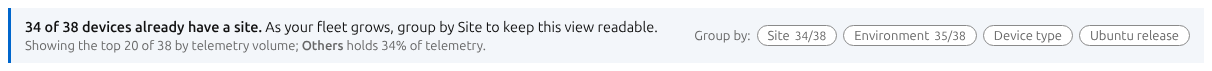
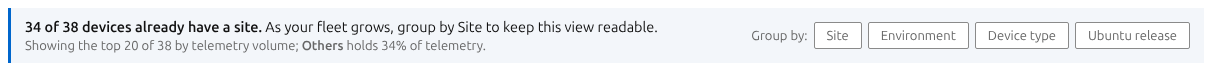
Use plain buttons for ladder group-bys and drop coverage counts
Claude-Session: https://claude.ai/code/session_0156BKrAD5wHGfcWHmuamSMf

Changed region(s): [[0.5495, 0.3099, 1.0, 0.6479], [0.6716, 0.6761, 0.9769, 0.7042]]

diff --git a/js/app.js b/js/app.js
@@ -310,11 +310,10 @@
   function drawLadder(top) {
     const parts = [], n = TL.DEVICES.length;
     const label = function (k) { return TL.GROUP_BY_LABELS[k] || TL.ATTRIBUTES[k].label; };
-    // quick group-bys: manual labels show how many devices already have one; reported ones always apply
+    // quick group-by buttons
     const groupBtns = function (total, cov) {
       return '<span class="p-ladder__actions">Group by: ' + ['site', 'environment', 'type', 'release'].map(function (k) {
-        const c = cov && cov[k] != null ? ' <span class="p-ladder__cov">' + cov[k] + '/' + total + '</span>' : '';
-        return '<button type="button" class="p-chip p-chip--small" data-ladder-group="' + k + '">' + esc(label(k)) + c + '</button>';
+        return '<button type="button" class="p-button p-ladder__btn" data-ladder-group="' + k + '">' + esc(label(k)) + '</button>';
       }).join('') + '</span>';
     };
     // the reminder: grouping is ready because most devices are already labelled

diff --git a/index.html b/index.html
@@ -6,7 +6,7 @@
   <title>Insights · Telemetry</title>
   <link rel="preconnect" href="https://fonts.googleapis.com">
   <link rel="stylesheet" href="https://fonts.googleapis.com/css2?family=Ubuntu+Sans:wght@300;400;500;600&family=Ubuntu+Sans+Mono&display=swap">
-  <link rel="stylesheet" href="css/app.css?v=20261103b">
+  <link rel="stylesheet" href="css/app.css?v=20261103c">
 </head>
 <body>
 <div class="l-app">
@@ -95,9 +95,9 @@
 <div class="tooltip" id="tooltip" role="tooltip" hidden></div>
 <dialog class="p-modal" id="assign-dialog" aria-labelledby="assign-title"></dialog>
 
-<script src="js/data.js?v=20261103b"></script>
-<script src="js/sankey.js?v=20261103b"></script>
-<script src="js/comments.js?v=20261103b"></script>
-<script src="js/app.js?v=20261103b"></script>
+<script src="js/data.js?v=20261103c"></script>
+<script src="js/sankey.js?v=20261103c"></script>
+<script src="js/comments.js?v=20261103c"></script>
+<script src="js/app.js?v=20261103c"></script>
 </body>
 </html>

diff --git a/css/app.css b/css/app.css
@@ -352,4 +352,4 @@ button, input, select, textarea { font: inherit; color: inherit; }
 .p-ladder__text { flex: 1 1 360px; }
 .p-ladder__text p { margin: 0; }
 .p-ladder__sub { color: var(--muted); font-size: .8125rem; margin-top: 2px !important; }
-.p-ladder__cov { color: var(--muted); font-size: .75rem; margin-left: 2px; }
+.p-ladder__btn { padding: 3px 12px; font-size: .8125rem; background: #fff; }

diff --git a/README.md b/README.md
@@ -58,7 +58,7 @@ The page adapts to fleet size. For demos, the fleet is chosen with an invisible 
 - **Some devices are always shown:** devices with comments in the current view, the selected device, and the device whose tooltip is open.
 - **Minimum height:** in column 1, each named device gets a minimum bar height so its name stays readable. Its flows stay proportional to its real volume.
 
-**The reminder (16+ devices, including the mid fleet):** the note leads with a reminder that grouping is ready, based on how many devices already carry a manual label. For example, "**34 of 38 devices already have a site.** As your fleet grows, group by Site to keep this view readable." It prefers Site once at least half the devices have one. The quick Group by buttons show coverage for manual keys (Site 34/38, Environment 35/38). Device type and Ubuntu release are reported by every device, so they show none. When Others applies, a quieter second line says what it holds.
+**The reminder (16+ devices, including the mid fleet):** the note leads with a reminder that grouping is ready, based on how many devices already carry a manual label. For example, "**34 of 38 devices already have a site.** As your fleet grows, group by Site to keep this view readable." It prefers Site once at least half the devices have one. Quick Group by buttons follow (Site, Environment, Device type, Ubuntu release). When Others applies, a quieter second line says what it holds.
 
 **What the Others note says:** how much telemetry Others holds and, for Health, Lifecycle and Energy, how many devices needing attention it hides. For example: "Others holds 98% of telemetry and 226 of the 246 unhealthy devices".
 

diff --git a/CLAUDE.md b/CLAUDE.md
@@ -46,7 +46,7 @@ Prototype of the **Insights** page (Telemetry product): a single-page Sankey. Se
 ## Fleet size ladder
 - Fleet chosen only by invisible URL param: `?fleet=hobby` (6 home-lab devices) · default/`mid` (38) · `enterprise` (5,000 = the 38 + generated extras; the 38 keep identical data).
 - Unassigned devices are NOT always shown in the top 20 (decided with the user); they're reached via device search or Group by Site → Unassigned → "Show devices in this group".
-- On mid (and 16–30), the ladder note leads with a reminder that grouping is ready ("34 of 38 devices already have a site…"), coverage shown on quick group-by buttons; the Others line is secondary.
+- On mid (and 16–30), the ladder note leads with a reminder that grouping is ready ("34 of 38 devices already have a site…"), quick group-by buttons (plain buttons, no coverage counts); the Others line is secondary.
 - Ladder: ≤15 every device · 16–30 nudge to group · 31+ top 20 (ranked by the view; frozen to the latest month; commented/selected/open devices always shown; rank order in column 1) + "Others" with a note on what it hides · 100+ opens grouped by Site, drill into a group via "Show devices in this group".
 
 ## Deployment
